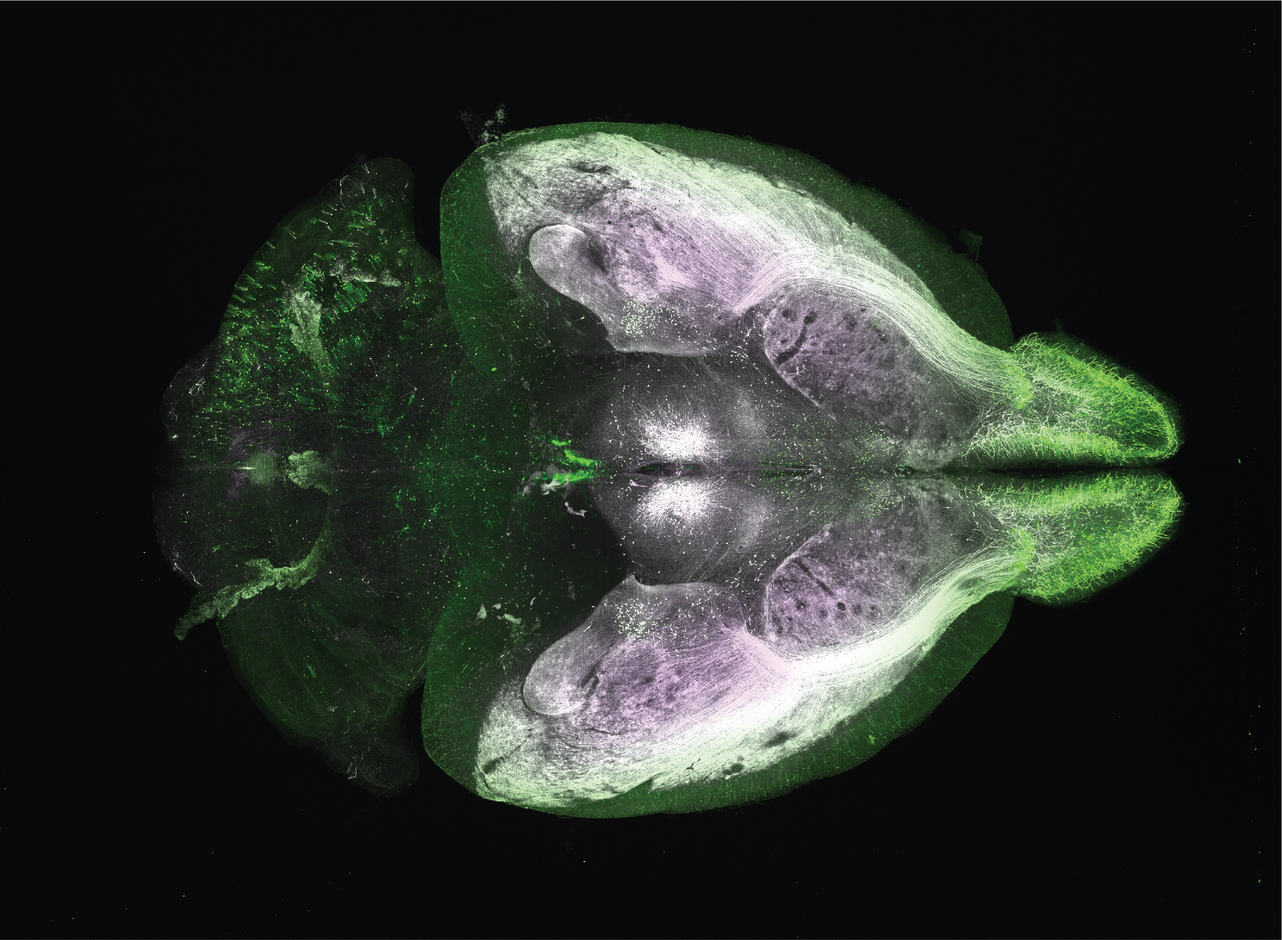
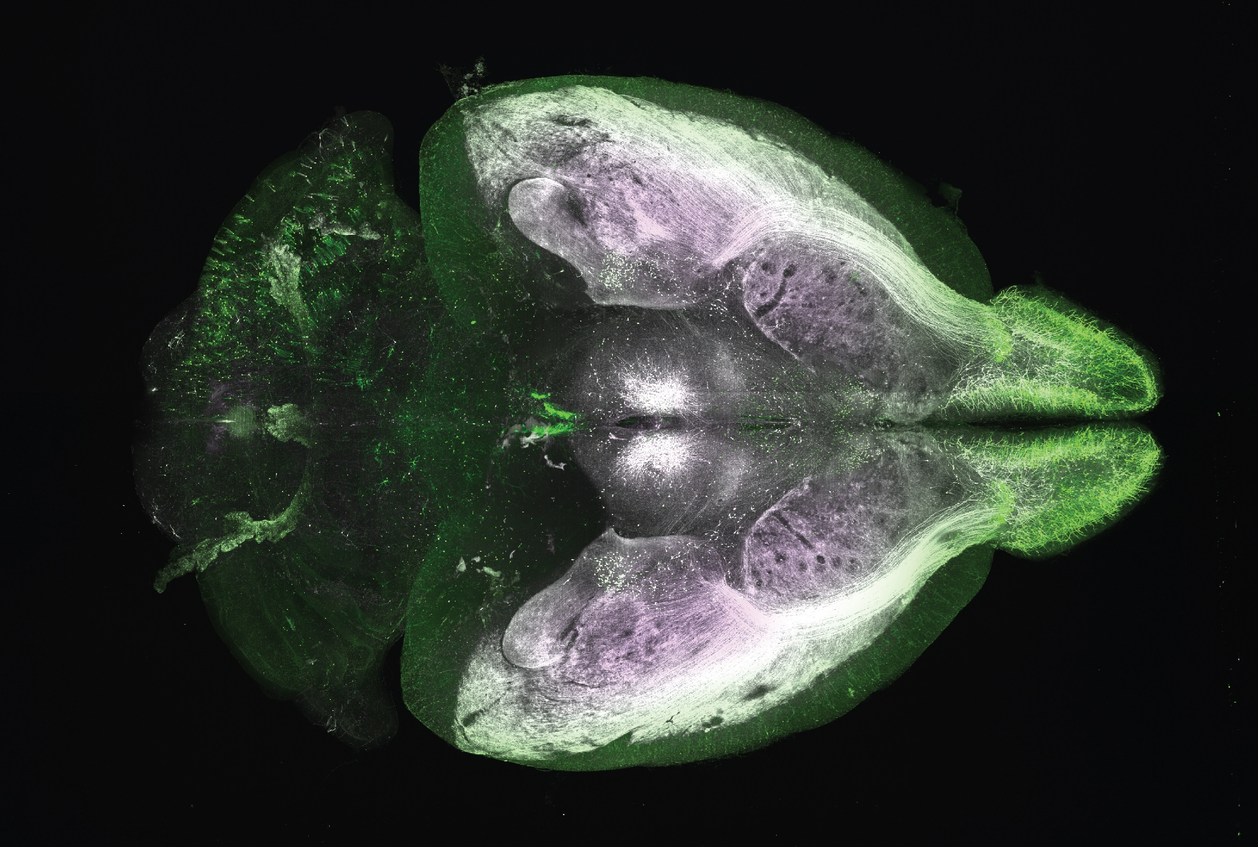
Formatting updates

Changed region(s): [[0.125, 0.0615, 0.9372, 0.9224], [0.9996, 0.0, 1.0, 1.0], [0.1874, 0.7379, 0.2812, 0.8609]]

diff --git a/docs/zebrafish.md b/docs/zebrafish.md
@@ -36,12 +36,12 @@ My senior thesis continued some of the questions about microglia and cell death 
    autoplay=false
 %}
 
+<!-- ![](/images/WOAt3b2_multipart_60umStack (1).png) -->
+
+I was interested in using the advantages of live-cell light-sheet timelapse microscopy to visualize OPC localization, migration, anatomy, and how they interact with RGC axons. As well as how these aspects might be different without the presence of RGCs. In my thesis, I discovered and described in detail the migration of a subpopulation of OPCs alongside RGC axon growth into the OT, as well as differences in the number of OPCs and qualitative differences in structure between lak mutants and wildtype. If you’re interested in learning more, my thesis can be read [here](/pdfs/thesis.pdf). Additionally, this work was presented as a poster at the North West Developmental Biology meeting which can be viewed [here](/pdfs/NWDB-poster.pdf). 
+
 {% include video.html
    src="/videos/WT_7dpf_stackScan.mp4"
    caption="3D stack of OPCs (green) and RGC terminals (magenta)"
    autoplay=false
 %}
-
-<!-- ![](/images/WOAt3b2_multipart_60umStack (1).png) -->
-
-I was interested in using the advantages of live-cell light-sheet timelapse microscopy to visualize OPC localization, migration, anatomy, and how they interact with RGC axons. As well as how these aspects might be different without the presence of RGCs. In my thesis, I discovered and described in detail the migration of a subpopulation of OPCs alongside RGC axon growth into the OT, as well as differences in the number of OPCs and qualitative differences in structure between lak mutants and wildtype. If you’re interested in learning more, my thesis can be read [here](/pdfs/thesis.pdf). Additionally, this work was presented as a poster at the North West Developmental Biology meeting which can be viewed [here](/pdfs/NWDB-poster.pdf). 

diff --git a/docs/projects.md b/docs/projects.md
@@ -6,14 +6,29 @@ order: 3
 ---
 
 #### [Expansion-assisted Selective Plane Illumination Microscopy (ExA-SPIM)](/exaspim/)
-![](/images/LowRes.jpg){: width="370"}{: border="1px solid #ccc"}
+<a href="{{ '/exaspim/' | relative_url }}" target="_blank">
+    <img src="{{ '/images/IMG_2282.jpg' | relative_url }}" 
+        alt="My PDF thumbnail"
+        style="width:370px; border:1px solid #ccc; border-radius:6px;">
+</a>
+
+<!-- ![](/images/IMG_2282.jpg){: width="370"}{: border="1px solid #ccc"} -->
 
 <br>
 
 #### [Glial Cell Dynamics in Zebrafish Optic Tectum Development](/tectum/)
-![](/images/WMAt1a5.png){: width="370" }{: border="1px solid #ccc"}
+<a href="{{ '/zebrafish/' | relative_url }}" target="_blank">
+    <img src="{{ '/images/WMAt1a5.png' | relative_url }}" 
+        alt="My PDF thumbnail"
+        style="width:370px; border:1px solid #ccc; border-radius:6px;">
+</a>
 
 <br>
 
 #### [Vocal Motor Circuit Anatomy in *Xenopus laevis*](/xenopus/)
-![](/images/xenopusIX.png){: width="370" }{: border="1px solid #ccc"}
+<a href="{{ '/xenopus/' | relative_url }}" target="_blank">
+    <img src="{{ '/images/xenopusIX.png' | relative_url }}" 
+        alt="My PDF thumbnail"
+        style="width:370px; border:1px solid #ccc; border-radius:6px;">
+</a>
+

diff --git a/docs/exaspim.md b/docs/exaspim.md
@@ -4,9 +4,7 @@ title: "ExA-SPIM"
 permalink: /exaspim/
 nav_exclude: true
 ---
-![ExA-SPIM Photo](/../images/IMG_2282.jpg)
-
-<br>
+![ExA-SPIM Photo](/../images/LowRes.jpg){: width="650"}
 
 
 The expansion assisted selective plane illumination microscope (ExA-SPIM) is a microscope developed at the Allen Institute for Neural dynamics. The aim of the ExA-SPIM project is to image large expanded mammalian brain tissue for the purpose of full neuron reconstruction.

diff --git a/docs/gallery.md b/docs/gallery.md
@@ -5,7 +5,7 @@ permalink: /gallery/
 order: 4
 ---
 
-![](/../images/CyanHot_20.png){: width="365" }
+![](/../images/CyanHot_20.png){: width="365" }{: figcaption="test"}
 ![](/../images/CyanHot_24.png){: width="365" }
 
 ![](/../images/IMG_2365.jpg){: width="365" }
